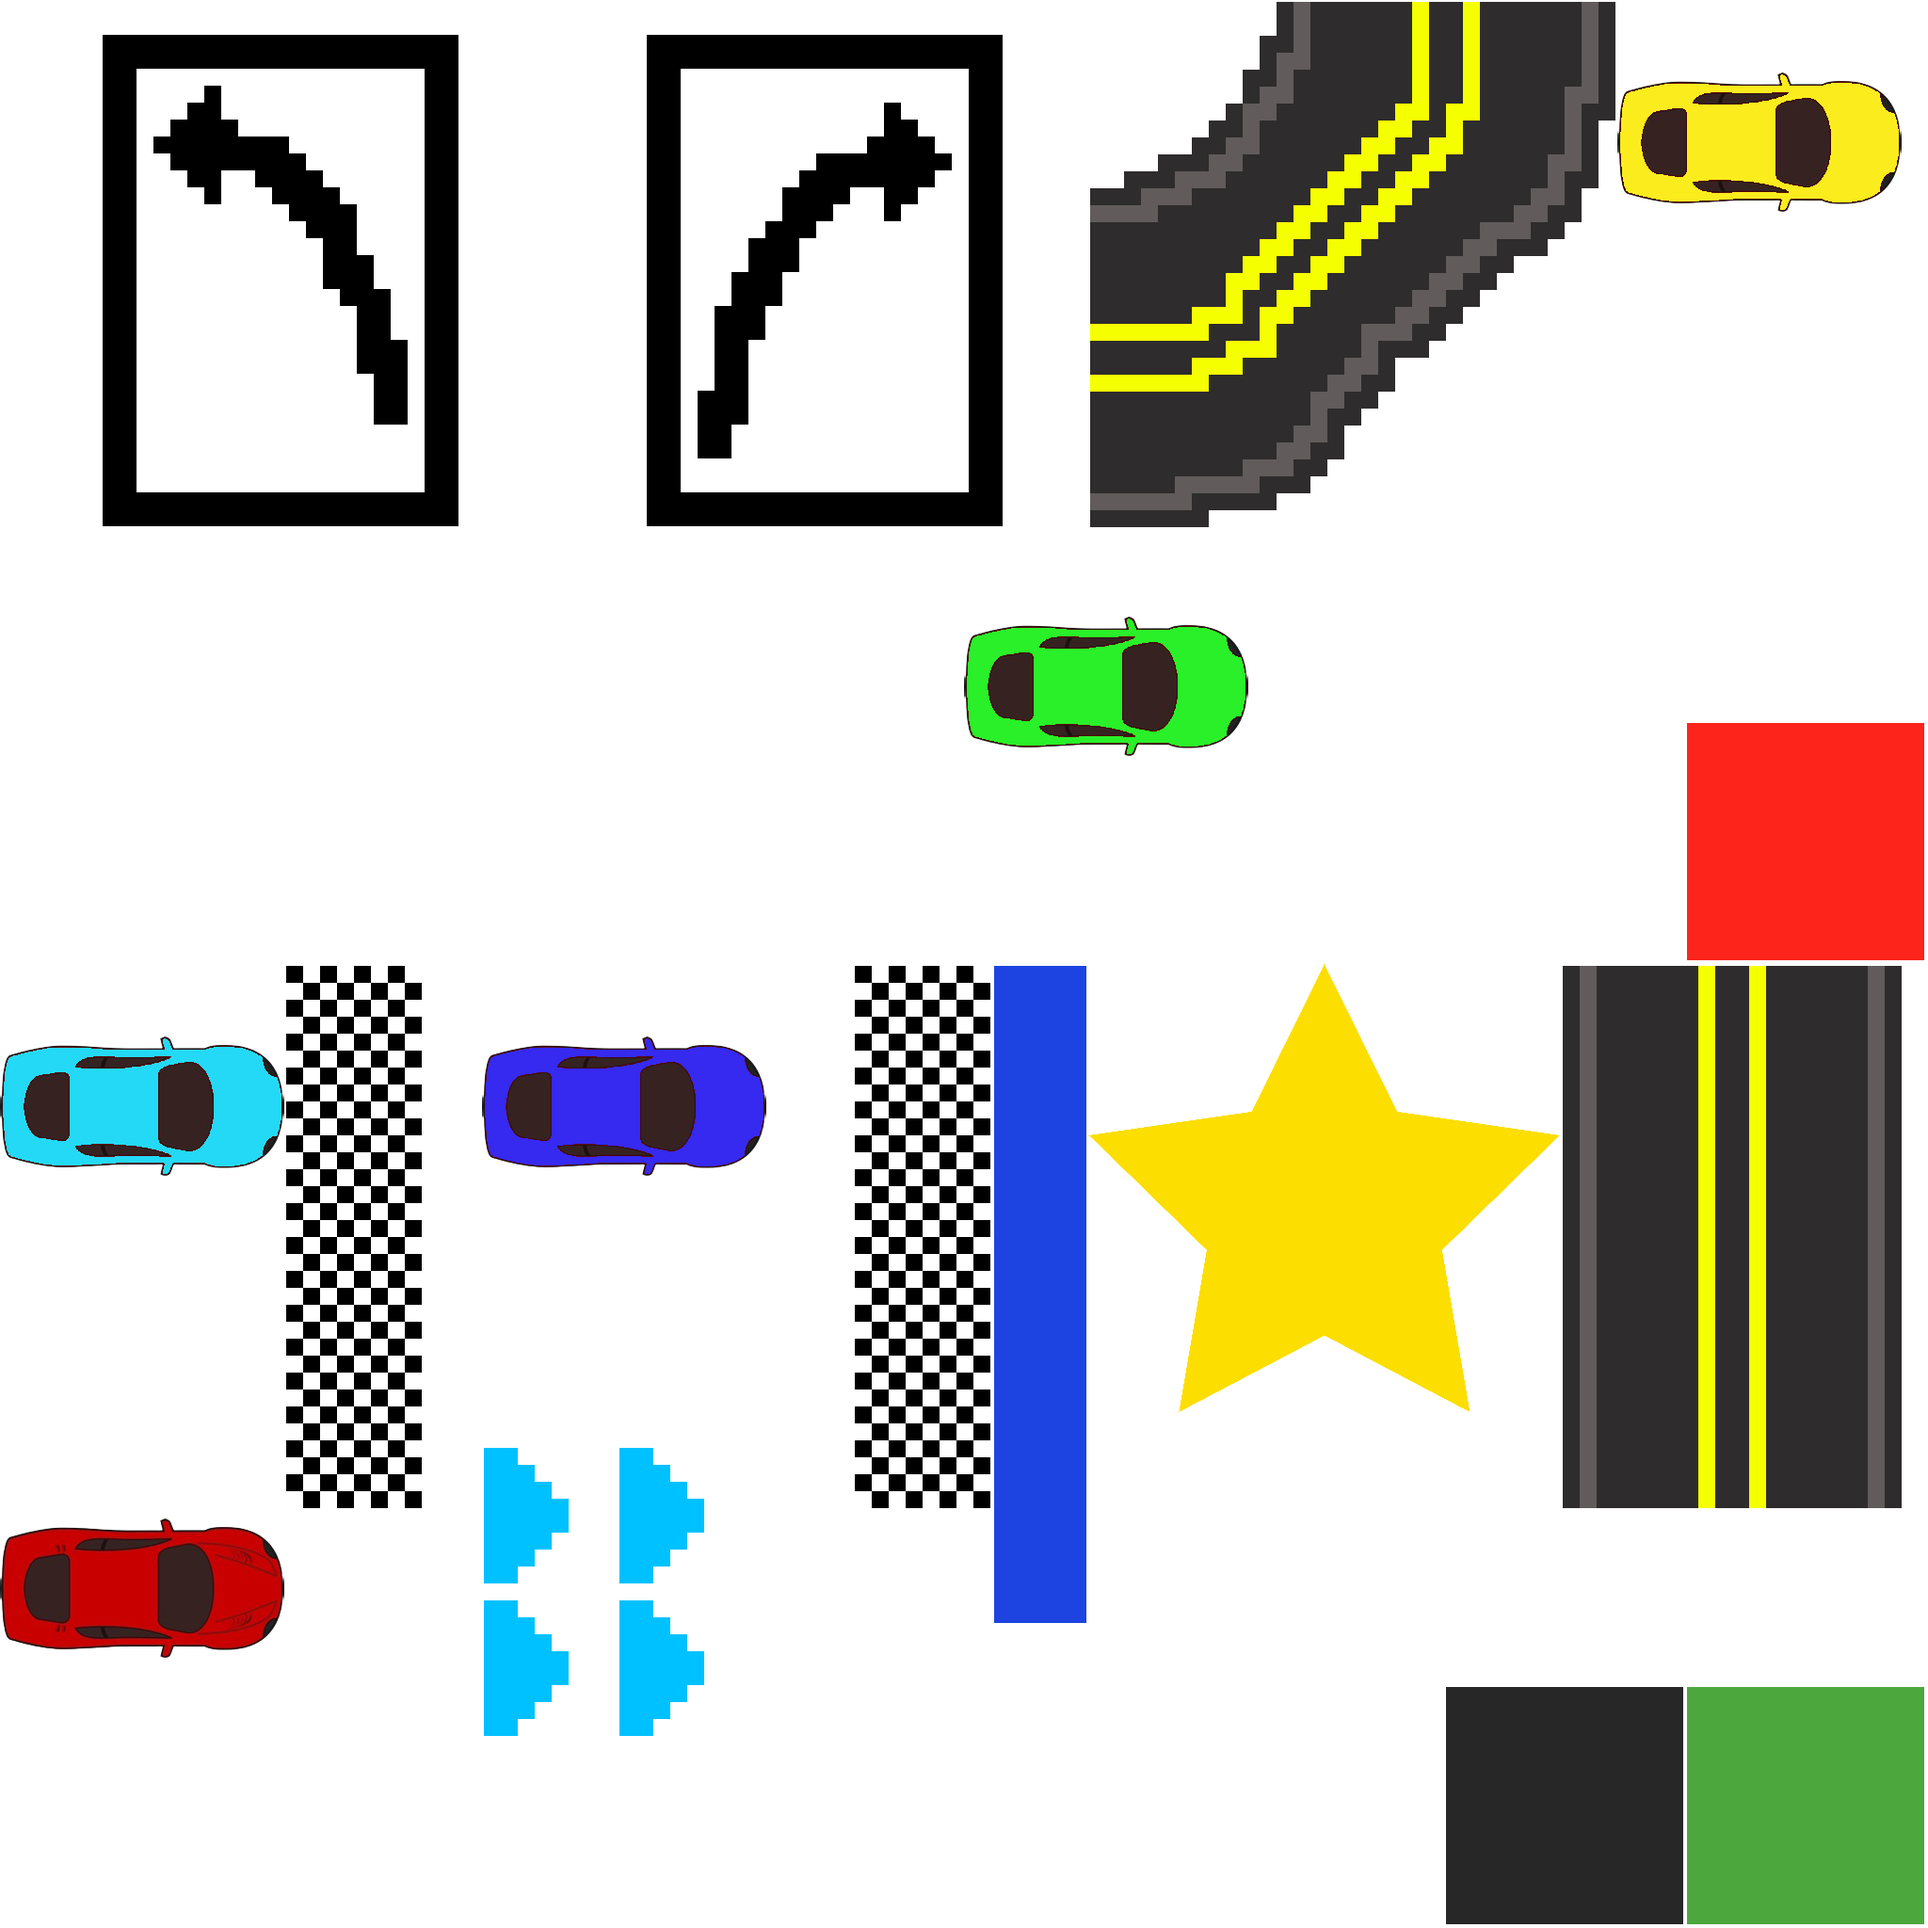
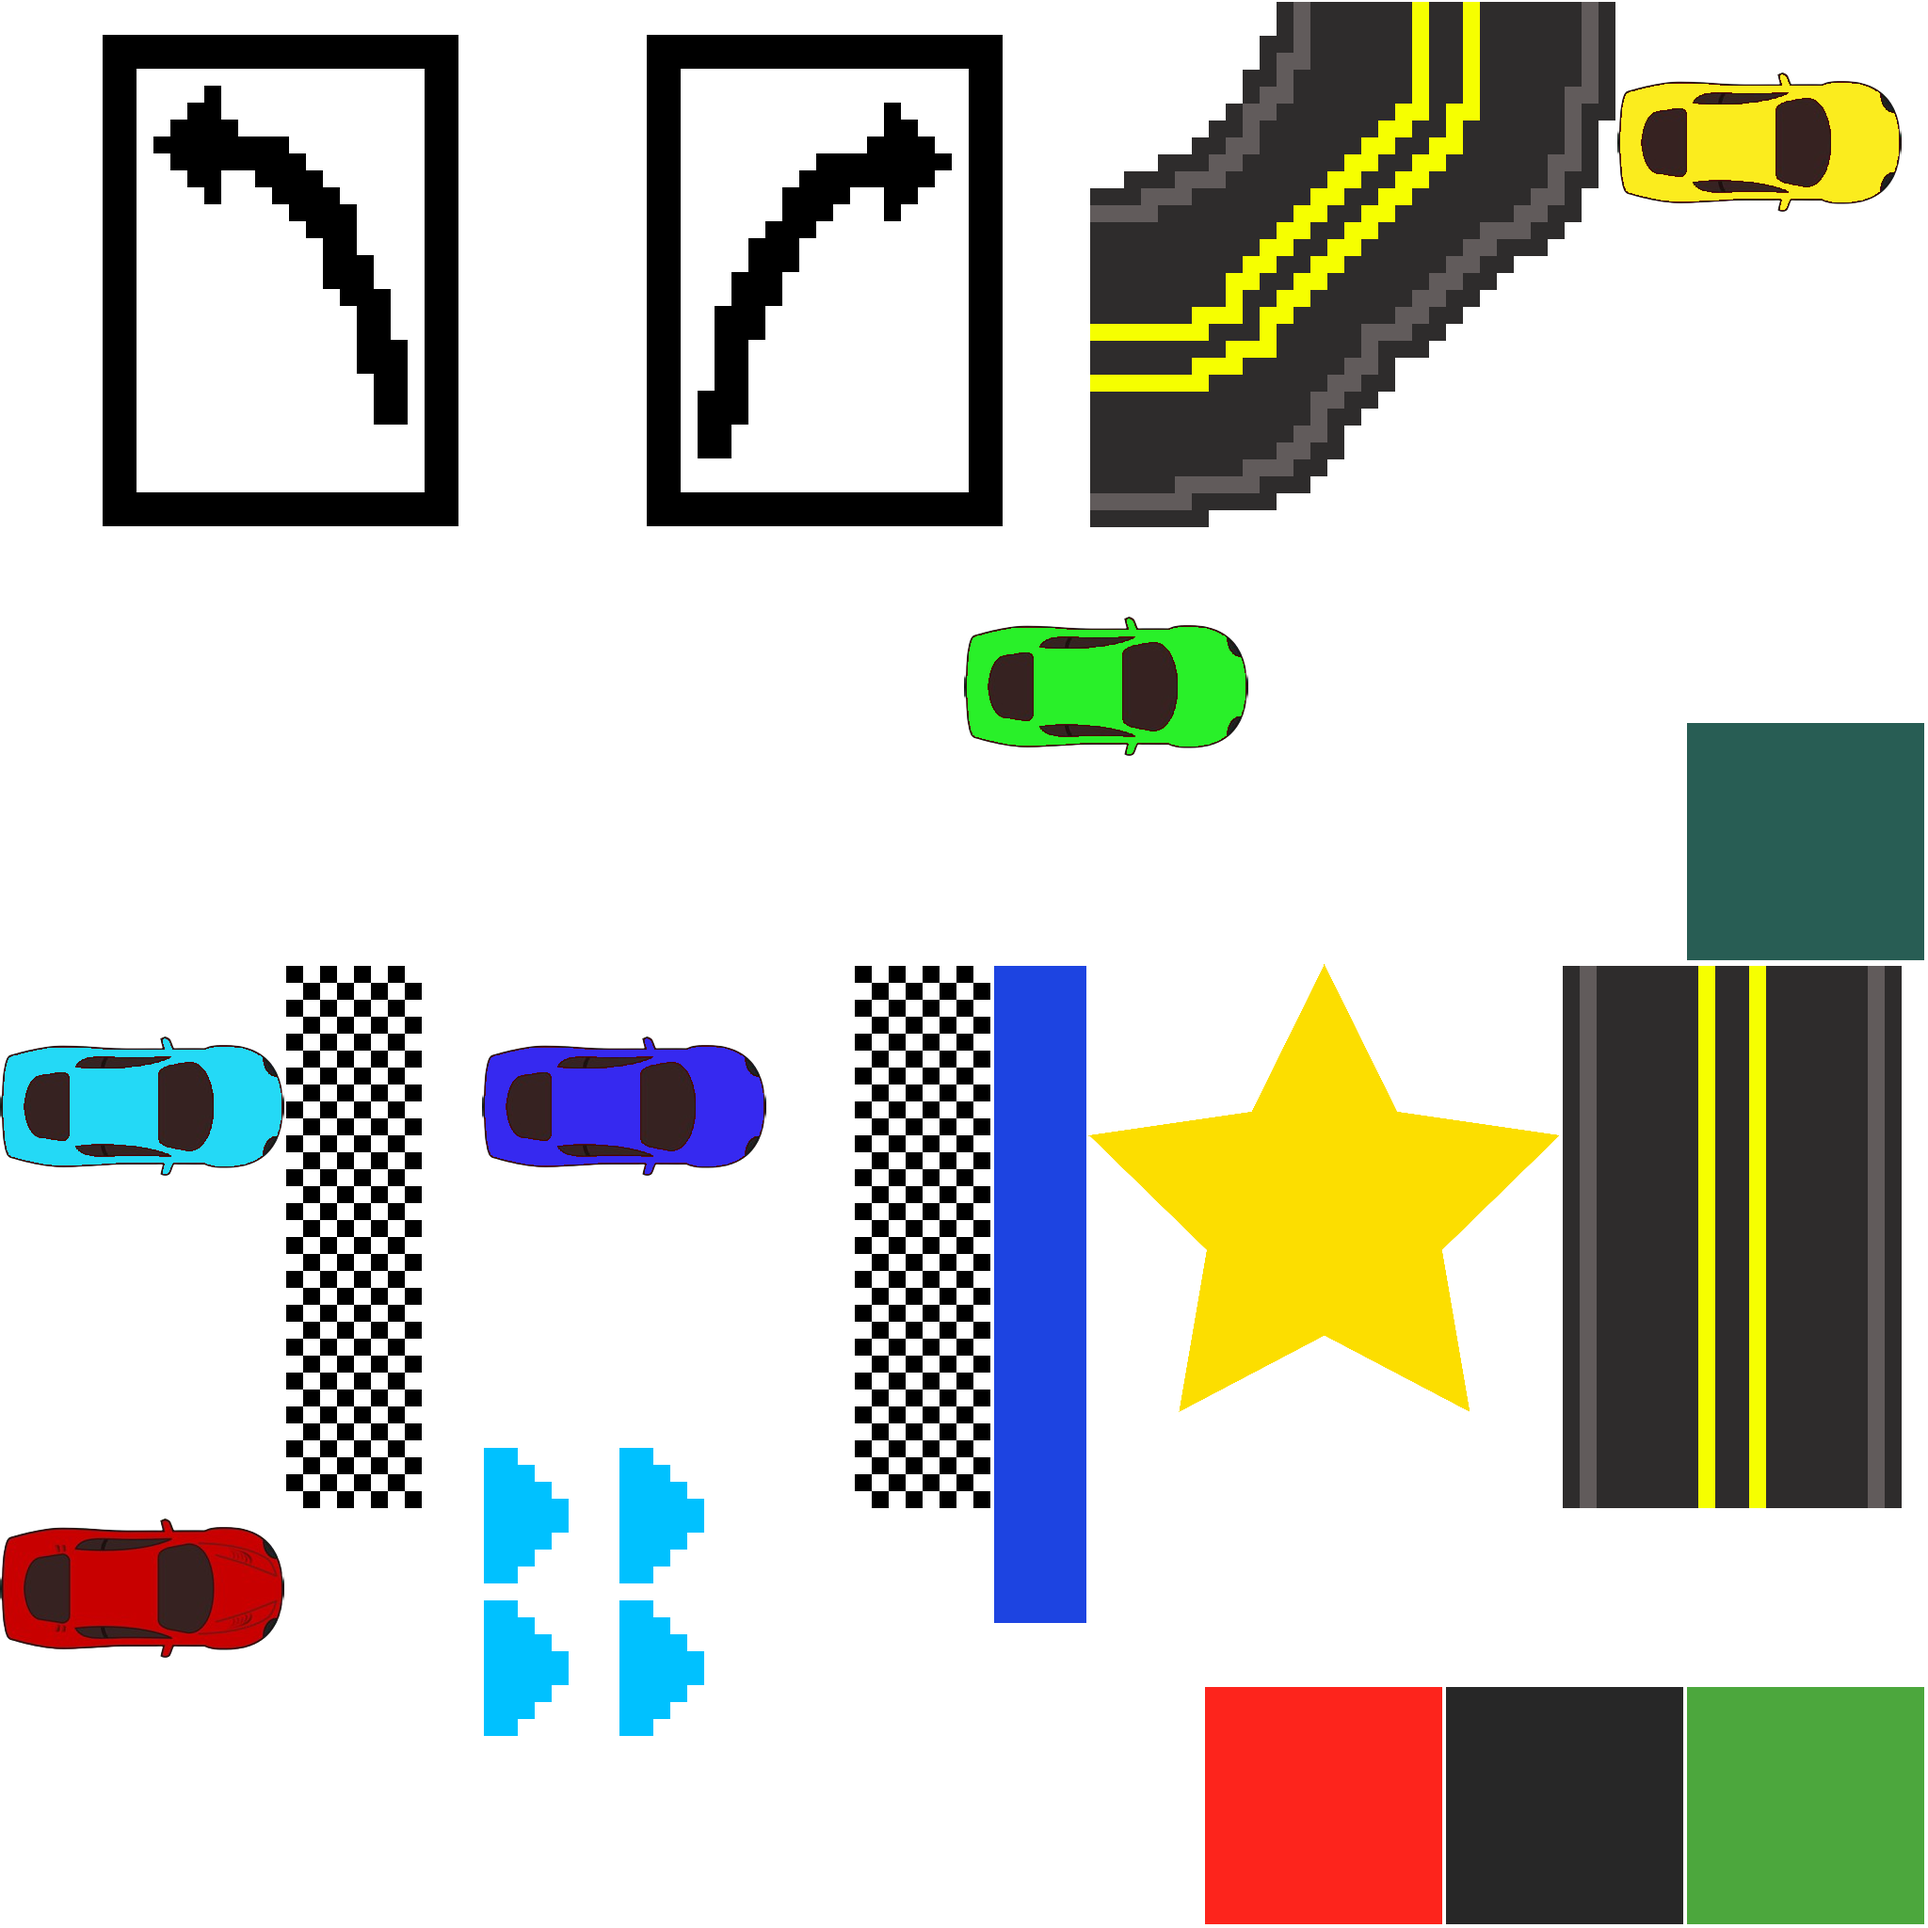
Update offline.json and style.css

Changed region(s): [[0.875, 0.375, 1.0, 0.5], [0.625, 0.875, 0.75, 1.0]]

diff --git a/game/scripts/c3runtime.js b/game/scripts/c3runtime.js
@@ -4226,6 +4226,7 @@ self.C3_JsPropNameTable = [
 	{Mouse: 0},
 	{finishTimeText: 0},
 	{restartText: 0},
+	{backgroundFinish: 0},
 	{startCount: 0},
 	{maxSpeed: 0},
 	{boostSpeed: 0},
@@ -4259,7 +4260,8 @@ self.InstanceType = {
 	restartButton: class extends self.ISpriteInstance {},
 	Mouse: class extends self.IInstance {},
 	finishTimeText: class extends self.ITextInstance {},
-	restartText: class extends self.ITextInstance {}
+	restartText: class extends self.ITextInstance {},
+	backgroundFinish: class extends self.ISpriteInstance {}
 }
 }
 
